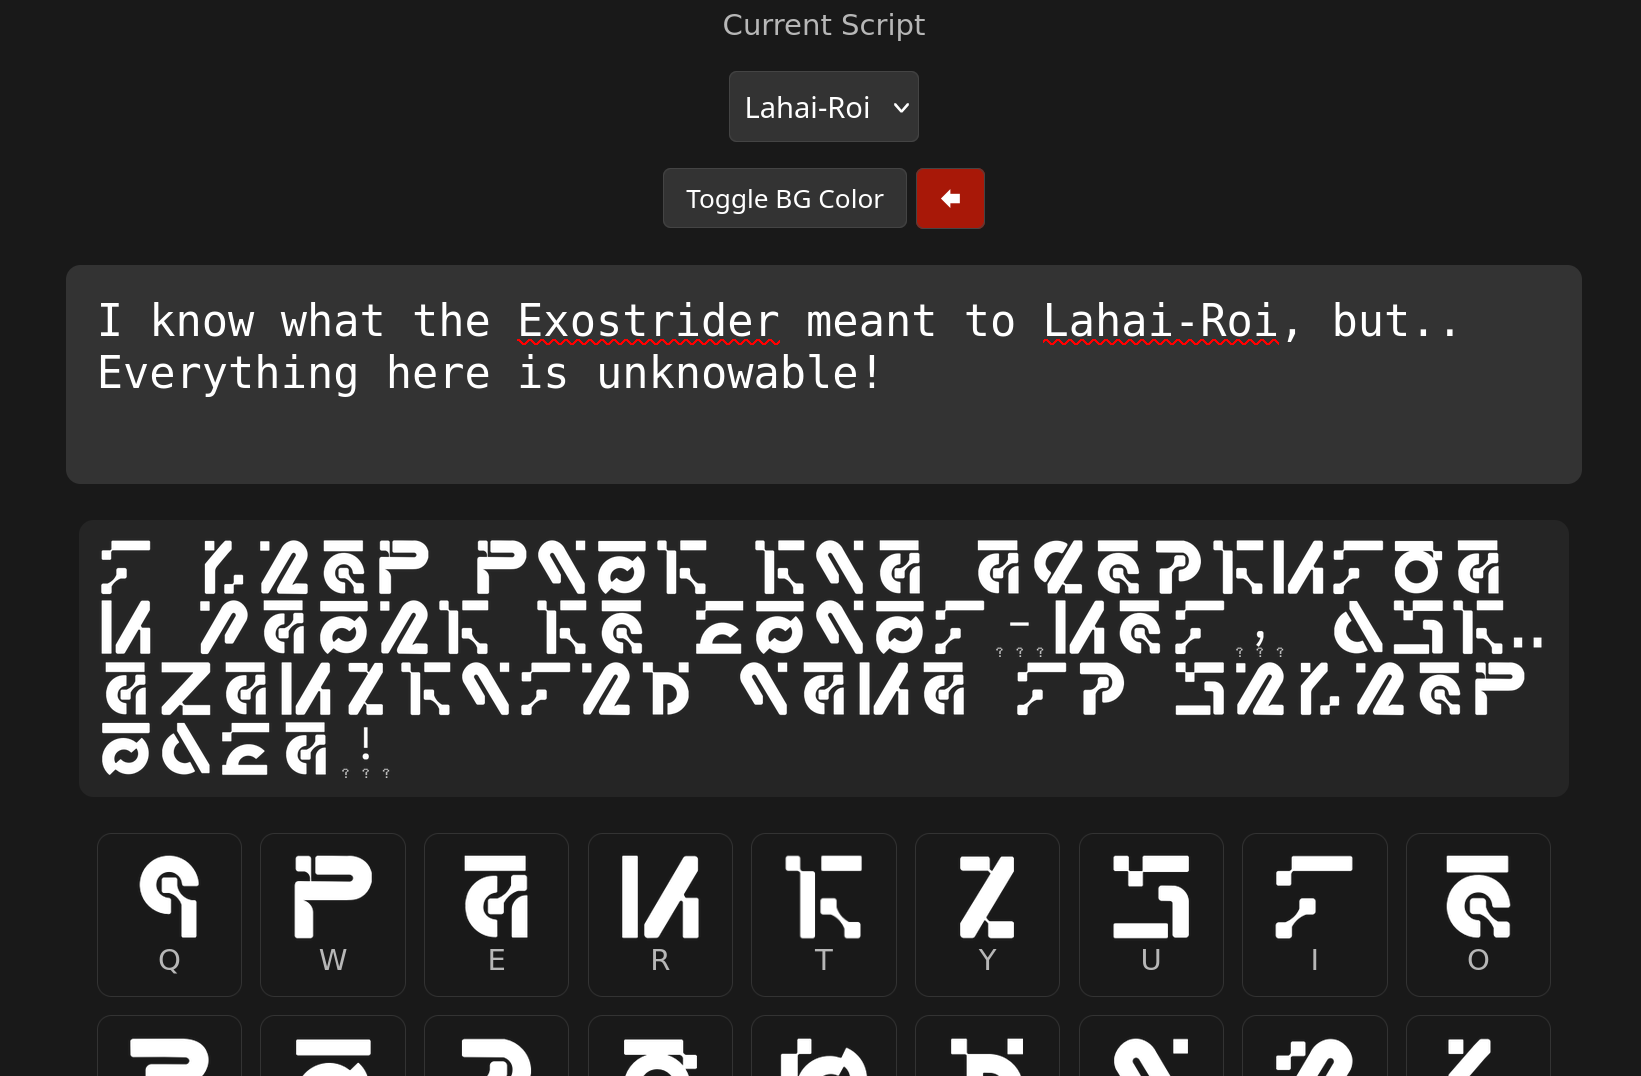
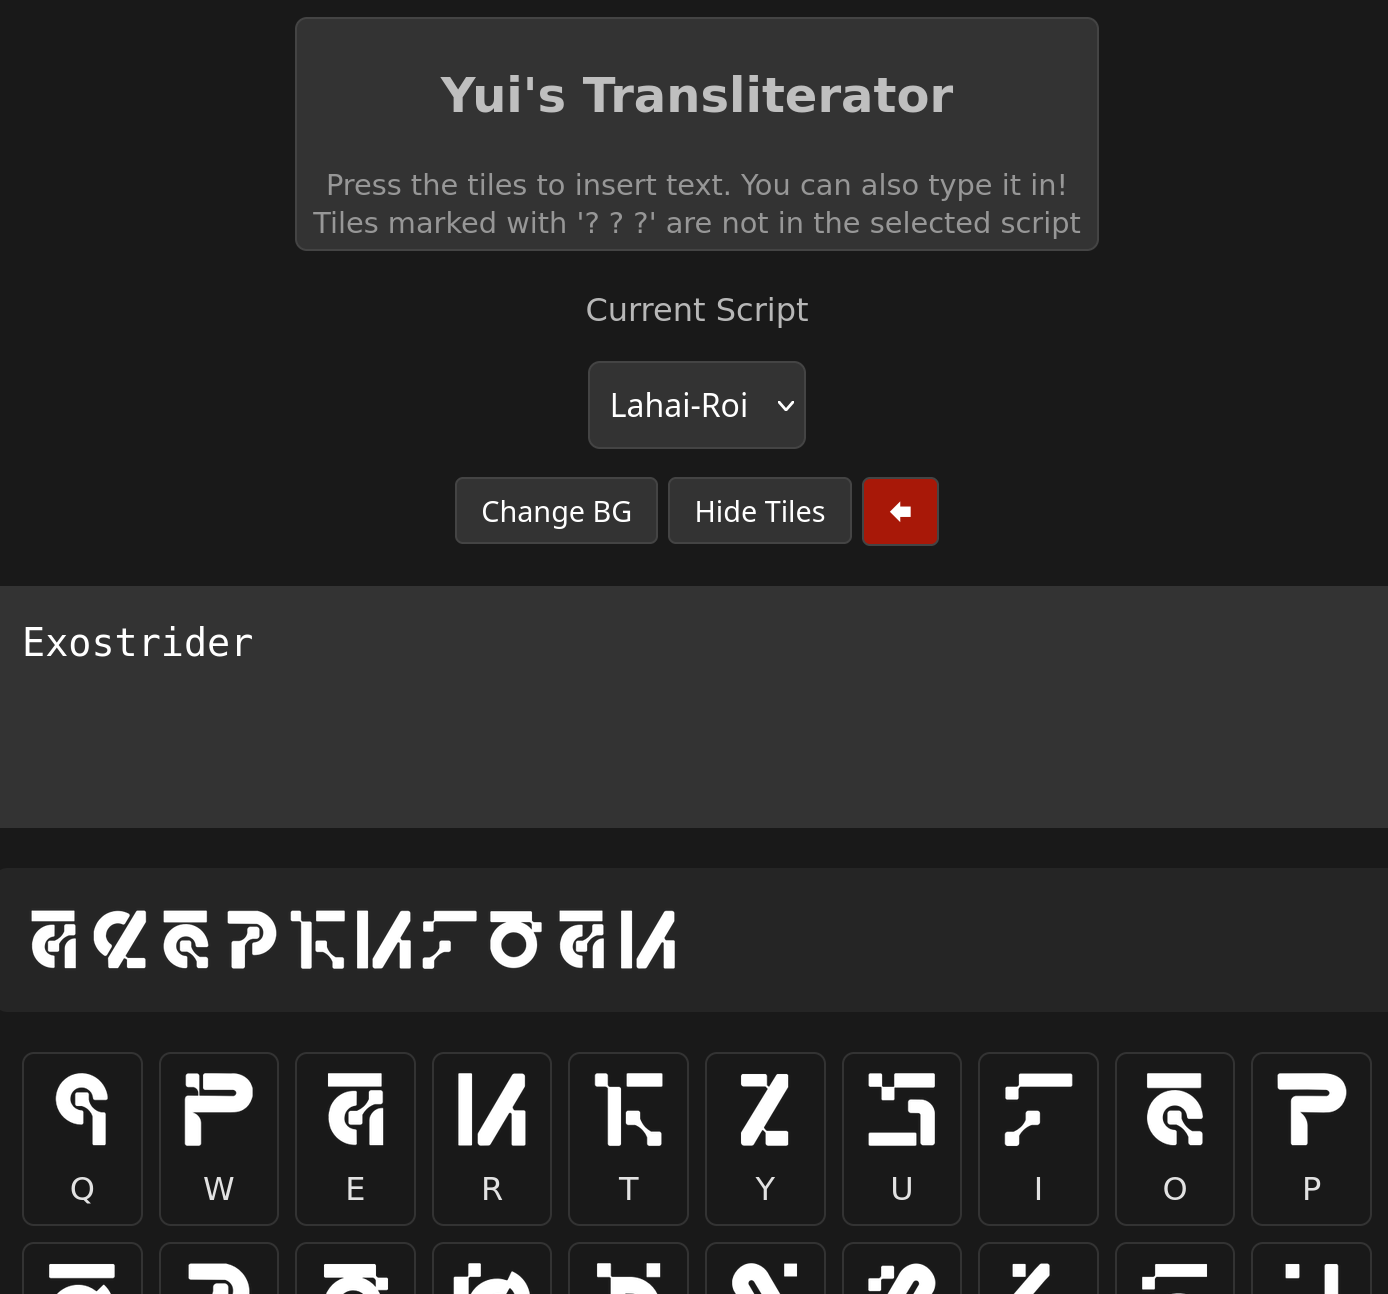
Cleanup, rename + more ref. images
- Reduced short changelog to 2 entries.
Short changelog can now show bold text.
Made the changelog more readable

- Added more reference pics
- Added links to references. Many of these-
 are not sorted and fonts is coming soon
- Fixed Tile letters CSS not being applied
- Reduced tile size. Also condensed page layout
- Renamed to Yui's Transliterator
- Tiles can now be hidden

diff --git a/style.css b/style.css
@@ -3,7 +3,7 @@ body {
     display: flex;
     flex-direction: column;
     align-items: center;
-    padding: 20px;
+    padding: 6px;
     background-color: #191919;
     color: rgba(250, 250, 250, 0.7);
 }
@@ -23,7 +23,7 @@ body {
     border: 1px solid #444;
 }
 
-.header-banner { padding: 4px 12px; }
+.header-banner { padding: 4px 8px; text-align:center; }
 .header-banner a {font-size:0.9rem; color: rgba(250, 250, 250, 0.5); white-space: pre-line; }
 
 
@@ -34,8 +34,8 @@ width: 100%;
 max-width: 800px;
 height: 87px;
 padding: 15px;
-font-size: 1.5rem;
-border-radius: 8px;
+font-size: 1.2rem;
+border-radius: 6px;
 border: 2px solid transparent;
 resize: none;
 color: white;
@@ -44,15 +44,15 @@ color: white;
 #script-select {
 color: #ffffff;
 border: 1px solid #444;
-padding: 8px;
-border-radius: 4px;
+padding: 10px;
+border-radius: 6px;
 font-size: 1rem;
 cursor: pointer;
 }
 
 .visual-output, .image-grid {
     width: 100%;
-    max-width: 800px;
+    max-width: 738px;
 }
 /*Tile background*/
 .visual-output {
@@ -61,7 +61,10 @@ cursor: pointer;
     gap: 1px;
     align-content: flex-start;
     min-height: 32px;
-    padding: 10px;
+    padding-top: 20px;
+    padding-bottom: 20px;
+    padding-left:15px;
+    padding-right:15px;
     background-color: rgba(255, 255, 255, 0.05);
     border-radius: 8px;
 }
@@ -88,7 +91,7 @@ cursor: pointer;
 .toggle-container { margin-top:6px;}
 
 /*Tile background button*/
-#bg-cycle-btn {
+#bg-cycle-btn, #toggle-grid-btn {
 background-color: #333333;
 color: #ffffff;
 border: 1px solid #444;
@@ -98,7 +101,7 @@ cursor: pointer;
 font-size: 0.9rem;
 }
 
-#bg-cycle-btn:hover {
+#bg-cycle-btn:hover, #toggle-grid-btn:hover {
 background-color: #444444;
 }
 
@@ -117,49 +120,58 @@ font-size: 0.9rem;
 background-color: #d61d08;
 }
 
-/*Tile*/
+/*Tile output*/
 .visual-output img {
     height: 32px;
     width: auto;
     object-fit: contain;
 }
 
+/*Tile Grid*/
 .image-grid {
     display: grid;
-    grid-template-columns: repeat(auto-fill, minmax(80px, 1fr));
-    gap: 10px;
+    grid-template-columns: repeat(auto-fill, minmax(60px, 1fr));
+    gap: 8px;
 }
 
+.image-grid.hidden {
+    display: none;
+}
+
+/*Tile card*/
 .letter-card {
     display: flex;
     flex-direction: column;
     align-items: center;
     cursor: pointer;
     transition: transform 0.1s, background-color 0.1s;
-    padding: 10px;
-    border-radius: 8px;
+    padding: 8px;
+    border-radius: 6px;
     border: 1px solid #333333;
 }
 
 .letter-card:hover { background-color: rgba(252, 221, 17, 0.1); }
 
+/*Tile Image*/
 .letter-card img {
-    width: 50px;
-    height: 50px;
+    width: 40px;
+    height: 40px;
     object-fit: contain;
     pointer-events: none;
 }
 
-.letter-label {
-    margin-top: 10px;
+/*Tile Label*/
+.letter-card span {
+    margin-top:10px;
     font-size: 1rem;
-    color: #fcec88;
+    color: #e2e2e2;
 }
 
+/*Footer*/
 .footer-banner {
     padding: 4px 8px;
     font-size: 0.9rem;
-    color: rgba(250, 250, 250, 0.5);
+    color: rgba(250, 250, 250, 0.7);
     transition: color 0.3s ease;
     white-space: pre-line;
 }
@@ -167,4 +179,4 @@ background-color: #d61d08;
 .footer-banner span, .footer-banner a { font-weight: bold; }
 .footer-banner span { color: #fff; }
 .footer-banner a { color: #85c6f7; }
-.footer-banner:hover { color: rgba(250, 250, 250, 0.9); }
+.footer-banner:hover { color: rgba(250, 250, 250, .9); }

diff --git a/script.js b/script.js
@@ -71,6 +71,7 @@ document.addEventListener('DOMContentLoaded', () => {
                           input: document.getElementById('output-area'),
                           visual: document.getElementById('visual-output'),
                           tileBGbutton: document.getElementById('bg-cycle-btn'),
+                          toggleGridBtn: document.getElementById('toggle-grid-btn'),
                           backspaceBtn: document.getElementById('backspace-btn')
     };
     initAssets();
@@ -81,10 +82,15 @@ document.addEventListener('DOMContentLoaded', () => {
         updateVisual();
     });
 
+// Toggle grid button
+    ui.toggleGridBtn.addEventListener('click', () => {
+        ui.grid.classList.toggle('hidden');
+        ui.toggleGridBtn.textContent = ui.grid.classList.contains('hidden') ? 'Show Tiles' : 'Hide Tiles';
+    });
 // Tile background button
     let bgState = 0;
     const states = [
-        { label: "Toggle BG Color", classes: [] },
+        { label: "Change BG", classes: [] },
         { label: "BG: Black", classes: ["bg-black"] },
         { label: "BG: White", classes: ["bg-black", "bg-invert"] },
         { label: "BG: Green", classes: ["bg-green", "bg-invert"] }
@@ -160,7 +166,7 @@ async function loadChangelog() {
     try {
         const response = await fetch('./changelog.json');
         const data = await response.json();
-        let textOutput = "Short Changelog:\n";
+        let textOutput = "Changelog:\n";
 
         data.forEach(entry => {
             textOutput += `\n${entry.date}\n`;
@@ -169,7 +175,12 @@ async function loadChangelog() {
             });
         });
 
-        container.textContent = textOutput.trim();
+        let htmlOutput = textOutput
+        .trim()
+        .replace(/\*\*(.*?)\*\*/g, '<span>$1</span>')
+        .replace(/\n/g, '<br>');
+
+        container.innerHTML = htmlOutput;
     } catch (error) {
         console.error('Error loading changelog:', error);
     }

diff --git a/index.html b/index.html
@@ -3,14 +3,14 @@
 <head>
     <meta charset="UTF-8">
     <meta name="viewport" content="width=device-width, initial-scale=1.0">
-    <title>ww-tl-proto</title>
+    <title>Transliterator</title>
     <link rel="stylesheet" href="style.css">
     <script src="script.js" defer></script>
 </head>
 <body>
     <header class="site-header">
         <div class="header-banner">
-            <h2>Wuthering Waves Transliterator</h2>
+            <h2>Yui's Transliterator</h2>
             <a>Press the tiles to insert text. You can also type it in!
             Tiles marked with '? ? ?' are not in the selected script</a>
         </div>
@@ -21,7 +21,8 @@
         <select id="script-select">
         </select>
         <div class="toggle-container">
-            <button type="button" id="bg-cycle-btn">Toggle BG Color</button>
+            <button type="button" id="bg-cycle-btn">Change BG</button>
+            <button type="button" id="toggle-grid-btn">Hide Tiles</button>
             <button type="button" id="backspace-btn">🡄</button>
         </div>
     </div>
@@ -34,9 +35,11 @@
     <footer class="site-footer">
         <div class="footer-banner">
             <div style="text-align: center;">
-                <a href="https://github.com/Qubit69/ww-transliterator">Git Repo</a> | Made by <span>Yuisu</span> | <a href="https://discord.gg/JnUd43sKSF">Solaris Archives</a>
+                <a href="https://github.com/Qubit69/ww-transliterator">Git Repo</a> | Made by <span>Yuisu</span>
+                <a href="https://discord.gg/JnUd43sKSF">Solaris Archives</a> | <a href="https://github.com/Qubit69/ww-transliterator/tree/main/ref">References</a>
             </div>
             <div id="changelog" style="margin-top: 12px; text-align: left;"></div>
+            <a href="https://github.com/Qubit69/ww-transliterator/commits/main/">More...</a>
         </div>
     </footer>
 </body>

diff --git a/README.md b/README.md
@@ -1,21 +1,17 @@
-# Wuthering Waves Transliterator
-This tool is created for the purpose of transliterating in-game text of Wuthering Waves.
-
-Go to the live page: https://qubit69.github.io/ww-transliterator/
 <div align="center">
    <img src="./img/common/preview.png" width="800px" />
 </div>
 
+This tool is created for the purpose of transliterating in-game text.
+
+Go to the live page: https://qubit69.github.io/ww-transliterator/
+
+
 Features:
-> Live preview of text-image and image-text
+> Clickable, live tile grid 
 
-> Clickable reference chart for in-game text
+> Different BG colors
 
-> Toggleable background color for screencaps
-
-> 3 scripts: Solaris, Ragunna and Lahai-Roi
+> Scripts from 2 games, Wuthering Waves and PGR
 
 -----
-
-Currently working on:
-`Septimont`
